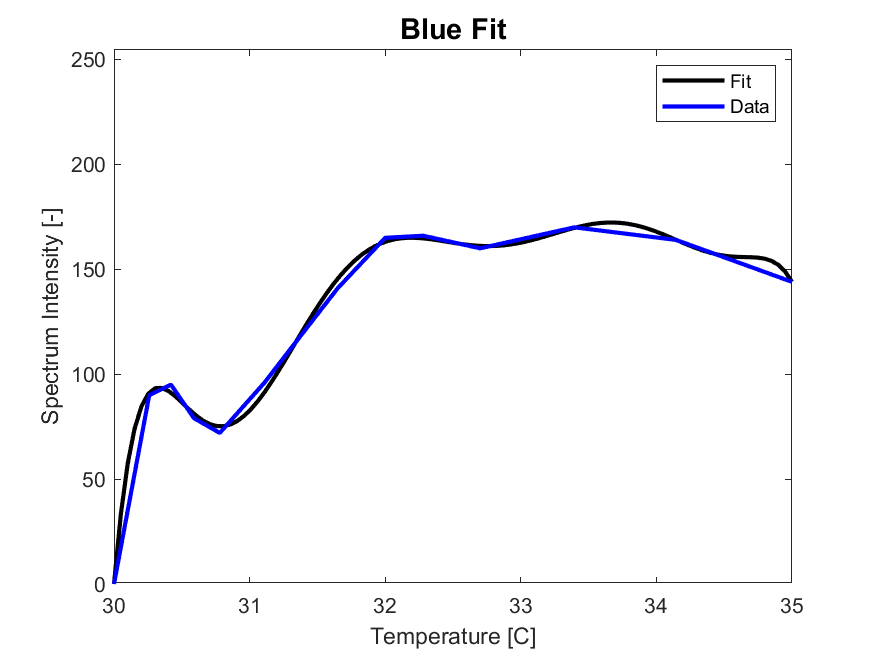
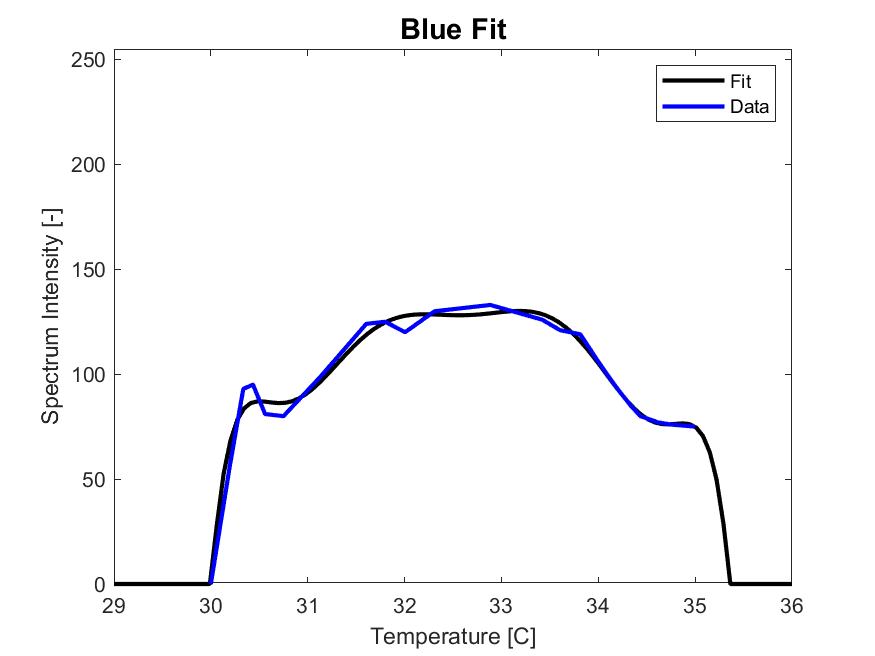
Update color spectrum

diff --git a/2D_Temp/Finite_Element_Solver_2D.py b/2D_Temp/Finite_Element_Solver_2D.py
@@ -9,7 +9,7 @@ import numpy as np
 
 class FES():
     
-    def __init__(self, loc_multiplier=0.15, uniform_target=True, split_target=False, random_target=False):
+    def __init__(self, control=False, loc_multiplier=0.40, uniform_target=True, split_target=False, random_target=False):
         
         # Ensure inputs are ok
         if loc_multiplier <= 0.0:
@@ -28,14 +28,14 @@ class FES():
         self.width = 0.03
         
         # Environment time parameters
-        self.sim_duration = 30.0
+        self.sim_duration = 5.0
         self.current_time = 0.0
         self.time_step = 0.01
         self.current_index = 0
         
         # Initial conditions
         self.initial_temperature = 294.15
-        self.initial_temp_delta = 0.005 * self.initial_temperature
+        self.initial_temp_delta = 0.0025 * self.initial_temperature
         
         # Boundary conditions
         self.htc = 7.0
@@ -66,7 +66,7 @@ class FES():
         self.temp_mesh = self.temp_mesh + self.get_perturbation(self.temp_mesh, self.initial_temp_delta)
         
         # Problem definition constants
-        self.target_ref = 305.15
+        self.target_ref = 304.15
         self.uniform_target = uniform_target
         self.split_target = split_target
         self.random_target = random_target
@@ -74,9 +74,8 @@ class FES():
             target_temp = (self.target_ref + np.random.rand() * 3.0)
             self.target_temp_mesh = target_temp * np.ones(self.temp_mesh.shape)
         elif self.split_target:
-            delta = (0.25*np.random.rand()+0.375) * 15.0
-            target_temp_1 = (self.target_ref - np.random.rand()*5.0)
-            target_temp_2 = target_temp_1 + delta
+            target_temp_1 = self.target_ref + np.random.rand()*3.0
+            target_temp_2 = self.target_ref + np.random.rand()*3.0
             split_point = round((0.25 * np.random.rand() + 0.375)*(self.num_vert_length-1))
             mesh_1 = np.ones(self.temp_mesh.shape)
             mesh_1[split_point:len(mesh_1)] = 0.0
@@ -85,15 +84,20 @@ class FES():
             self.target_temp_mesh = target_temp_1 * mesh_1 + target_temp_2 * mesh_2
         elif self.random_target:
             self.target_temp_mesh = self.target_ref * np.ones(self.temp_mesh.shape)
-            self.target_temp_mesh = self.target_temp_mesh + self.get_perturbation(self.target_temp_mesh, 10.0)
+            self.target_temp_mesh = self.target_temp_mesh + self.get_perturbation(self.target_temp_mesh, 3.0)
         self.temp_error = 0.0
         self.temp_error_max = 0.0
         self.temp_error_min = 0.0
         
         # Input magnitude parameters
-        self.max_input_mag = 6.63e8
-        self.max_input_mag_rate = 1.0
-        self.input_magnitude = np.random.rand()
+        self.control = control
+        self.max_input_mag = 5e7
+        if self.control:
+            self.max_input_mag_rate = 0.0
+            self.input_magnitude = 1.0
+        else:
+            self.max_input_mag_rate = 1.0
+            self.input_magnitude = np.random.rand()
         
         # Input distribution parameters
         self.radius_of_input = 0.008
@@ -104,9 +108,13 @@ class FES():
         self.movement_dirn = np.array([0.0, 1.0])
         self.x_dirn_movement = 1.0
         self.length_wise_dist = 0.0
-        self.max_input_loc_rate = 0.075
-        self.input_location = np.array([np.random.choice(self.mesh_cens_x_cords[:,0]), np.random.choice(self.mesh_cens_y_cords[0,:])])
         self.loc_multiplier = loc_multiplier
+        if self.control:
+            self.max_input_loc_rate = 0.0
+            self.input_location = np.array([self.mesh_cens_x_cords[(self.num_vert_length-1)//2,0], self.mesh_cens_y_cords[0,(self.num_vert_width-1)//2]])
+        else:
+            self.max_input_loc_rate = 0.075
+            self.input_location = np.array([np.random.choice(self.mesh_cens_x_cords[:,0]), np.random.choice(self.mesh_cens_y_cords[0,:])])
         
         # Input panels
         self.input_mesh = self.input_magnitude * self.max_input_mag * np.exp(((self.mesh_cens_x_cords - self.input_location[0])**2 * self.exp_const) + 
@@ -327,9 +335,8 @@ class FES():
             target_temp = self.target_ref + np.random.rand() * 3.0
             self.target_temp_mesh = target_temp * np.ones(self.temp_mesh.shape)
         elif self.split_target:
-            delta = (0.25*np.random.rand()+0.375) * 15.0
-            target_temp_1 = (self.target_ref - np.random.rand()*5.0)
-            target_temp_2 = target_temp_1 + delta
+            target_temp_1 = self.target_ref + np.random.rand()*3.0
+            target_temp_2 = self.target_ref + np.random.rand()*3.0
             split_point = round((0.25 * np.random.rand() + 0.375)*(self.num_vert_length-1))
             mesh_1 = np.ones(self.temp_mesh.shape)
             mesh_1[split_point:len(mesh_1)] = 0.0
@@ -338,7 +345,7 @@ class FES():
             self.target_temp_mesh = target_temp_1 * mesh_1 + target_temp_2 * mesh_2
         elif self.random_target:
             self.target_temp_mesh = self.target_ref * np.ones(self.temp_mesh.shape)
-            self.target_temp_mesh = self.target_temp_mesh + self.get_perturbation(self.target_temp_mesh, 10.0)
+            self.target_temp_mesh = self.target_temp_mesh + self.get_perturbation(self.target_temp_mesh, 3.0)
         self.temp_error = 0.0
         self.temp_error_max = 0.0
         self.temp_error_min = 0.0
@@ -348,8 +355,12 @@ class FES():
         self.temp_mesh = self.temp_mesh + self.get_perturbation(self.temp_mesh, self.initial_temp_delta)
         
         # Reset input
-        self.input_magnitude = np.random.rand()
-        self.input_location = np.array([np.random.choice(self.mesh_cens_x_cords[:,0]), np.random.choice(self.mesh_cens_y_cords[0,:])])
+        if self.control:
+            self.input_magnitude = 1.0
+            self.input_location = np.array([self.mesh_cens_x_cords[(self.num_vert_length-1)//2,0], self.mesh_cens_y_cords[0,(self.num_vert_width-1)//2]])
+        else:
+            self.input_magnitude = np.random.rand()
+            self.input_location = np.array([np.random.choice(self.mesh_cens_x_cords[:,0]), np.random.choice(self.mesh_cens_y_cords[0,:])])
         self.movement_dirn = np.array([0.0, 1.0])
         self.x_dirn_movement = 1.0
         self.length_wise_dist = 0.0

diff --git a/2D_Temp/get_p_performance.py b/2D_Temp/get_p_performance.py
@@ -144,60 +144,71 @@ def run(env, total_trajectories, execution_rate, frame_multiplier, denom_const, 
 if __name__ == '__main__':
 
     # Simulation set parameters
-    denom_const_set = np.linspace(0.075, 0.1, 1)
-    loc_multiplier_set = np.linspace(0.4, 1.0, 1)
+    denom_const_set = np.linspace(0.05, 0.05, 1)
+    loc_multiplier_set = np.linspace(0.4, 0.4, 1)
     render = True
     plot = True
     combine = False
     
     # Simulation parameters
     total_trajectories = 1
+    control = True
     uniform_target = True
     split_target = False
     random_target = False
 
     # Agent hyperparameters
-    steps_per_trajectory = 3000
+    steps_per_trajectory = 500
 
     # Rendering parameters
     frame_multiplier = 3.0
     dpi = 100
 
     # Temperature to color fit data (degrees celcius to RGB values [0.0,255.0])
-    ## RED a0 + a1*cos(x*w) + b1*sin(x*w) + a2*cos(2*x*w) + b2*sin(2*x*w)
-    red_a0 = 93.2623114257016
-    red_a1 = -91.7952300495751
-    red_b1 = 64.1447209123587
-    red_a2 = -16.0694110009838
-    red_b2 = 4.57316288955027
-    red_w = 5.66052730376540
-    red_max = 30.88612
+    ## RED_1 a0 + a1*cos(x*w) + b1*sin(x*w)
+    ## RED_2 a0 + a1*cos(x*w) + b1*sin(x*w) + a2*cos(2*x*w) + b2*sin(2*x*w)
+    red_1_max = 30.96
+    red_2_min = 32.89
+    red_1_a0 =  75.7205687988528
+    red_1_a1 = -83.3811961554596
+    red_1_b1 =  2.16921777958013
+    red_1_w =   5.66519794764997
+    red_2_a0 =  13.4423061030970
+    red_2_a1 =  11.4310759961892
+    red_2_b1 = -19.9304438902058
+    red_2_a2 =  1.03633786169181
+    red_2_b2 = -6.91674577098558
+    red_2_w =   1.41780395653457
     
-    ## GREEN a0 + a1*cos(x*w) + b1*sin(x*w) + a2*cos(2*x*w) + b2*sin(2*x*w)
-    green_a0 = -49946695415.8790
-    green_a1 = 65679756750.0321
-    green_b1 = 11012692209.8355
-    green_a2 = -15739328854.6773
-    green_b2 = -5430794138.40053
-    green_w = 0.00498479945200859
+    ## GREEN a0 + a1*cos(x*w) + b1*sin(x*w) + a2*cos(2*x*w) + b2*sin(2*x*w) + a3*cos(3*x*w) + b3*sin(3*x*w)
+
+    green_a0 =  41.8497458579400
+    green_a1 =  50.5337801853276
+    green_b1 =  61.2631767821492
+    green_a2 =  72.4315809903627
+    green_b2 = -14.1293352372328
+    green_a3 =   0.8477446584536
+    green_b3 = -21.8074000100672
+    green_w =    0.8050372098715
     
     ## BLUE a0 + a1*cos(x*w) + b1*sin(x*w) + a2*cos(2*x*w) + b2*sin(2*x*w) + a3*cos(3*x*w) + b3*sin(3*x*w) + a4*cos(4*x*w) + b4*sin(4*x*w)
-    blue_a0 = -1646803683.40141
-    blue_a1 = -2103838071.25001
-    blue_b1 = 1599042209.40645
-    blue_a2 = -356663759.818923
-    blue_b2 = 1284240517.14124
-    blue_a3 = 143059075.475354
-    blue_b3 = 358939517.750338
-    blue_a4 = 42253994.9805294
-    blue_b4 = 25392119.3307925
-    blue_w = -0.115874317884020
+    blue_a0 = -52917511.6179542
+    blue_a1 =  60193891.2132188
+    blue_b1 = -60277928.6140266
+    blue_a2 =  62362.8148054820
+    blue_b2 =  43381416.1414114
+    blue_a3 = -9057653.45279618
+    blue_b3 = -9016664.70251709
+    blue_a4 =  1667857.69952913
+    blue_b4 = -5415.39415551451
+    blue_w =   0.16819988522403
 
     # Make the colormap for the fit data
-    red_fit = lambda x : red_a0 + red_a1*np.cos(x*red_w) + red_b1*np.sin(x*red_w) + red_a2*np.cos(2*x*red_w) + red_b2*np.sin(2*x*red_w)
-    green_fit = lambda x : green_a0 + green_a1*np.cos(x*green_w) + green_b1*np.sin(x*green_w) + green_a2*np.cos(2*x*green_w) + green_b2*np.sin(2*x*green_w)
+    red_1_fit = lambda x : (red_1_a0 + red_1_a1*np.cos(x*red_1_w) + red_1_b1*np.sin(x*red_1_w)) if (x>=30.0 and x<= red_1_max) else 0.0
+    red_2_fit = lambda x : (red_2_a0 + red_2_a1*np.cos(x*red_2_w) + red_2_b1*np.sin(x*red_2_w) + red_2_a2*np.cos(2*x*red_2_w) + red_2_b2*np.sin(2*x*red_2_w)) if (x>=red_2_min and x<=36.0) else 0.0
+    green_fit = lambda x : green_a0 + green_a1*np.cos(x*green_w) + green_b1*np.sin(x*green_w) + green_a2*np.cos(2*x*green_w) + green_b2*np.sin(2*x*green_w) + green_a3*np.cos(2*x*green_w) + green_b3*np.sin(2*x*green_w)
     blue_fit = lambda x : blue_a0 + blue_a1*np.cos(x*blue_w) + blue_b1*np.sin(x*blue_w) + blue_a2*np.cos(2*x*blue_w) + blue_b2*np.sin(2*x*blue_w) + blue_a3*np.cos(3*x*blue_w) + blue_b3*np.sin(3*x*blue_w) + blue_a4*np.cos(4*x*blue_w) + blue_b4*np.sin(4*x*blue_w)
-    rgb = lambda x : (np.maximum(red_fit(x-273.15)/255.0,0.0) if (x<=red_max+273.15 and x>=30.0+273.15) else 0.0, np.maximum(green_fit(x-273.15)/255.0,0.0) if (x<=35.0+273.15 and x>=30.0+273.15) else 0.0, np.maximum(blue_fit(x-273.15)/255.0,0.0) if (x<=35.0+273.15 and x>=30.0+273.15) else 0.0)
+    rgb = lambda x : (max((red_1_fit(x-273.15) + red_2_fit(x-273.15)), 0.0)/255.0, max(green_fit(x-273.15),0.0)/255.0, max(blue_fit(x-273.15),0.0)/255.0)  if (x-273.15>=29.0 and x-273.15<=36.0) else (0.0, 0.0, 0.0)
 
     # Initialize simulation set
     for i in range(len(denom_const_set)):
@@ -206,7 +217,7 @@ if __name__ == '__main__':
             loc_multiplier = loc_multiplier_set[j]
             
             # Calculated env and agent parameters
-            env = fes.FES(loc_multiplier=loc_multiplier, uniform_target=uniform_target, split_target=split_target, random_target=random_target)
+            env = fes.FES(control=control, loc_multiplier=loc_multiplier, uniform_target=uniform_target, split_target=split_target, random_target=random_target)
             agent_temporal_precision = (env.sim_duration / float(steps_per_trajectory))
             execution_rate = int(agent_temporal_precision / env.time_step)
         
@@ -494,7 +505,7 @@ if __name__ == '__main__':
             plt.cla()
             plt.clf()
             fig, (ax0, ax1, ax2) = plt.subplots(3, 1)
-            fig.set_size_inches(11,8.5)
+            fig.set_size_inches(6.0,12.0)
     
             # Plot temperature percent
             c0 = ax0.pcolor(100.0*env.mesh_verts_x_coords, 100.0*env.mesh_verts_y_coords, normalized_temperature[curr_step], shading='auto', cmap=cmap, norm=norm)
